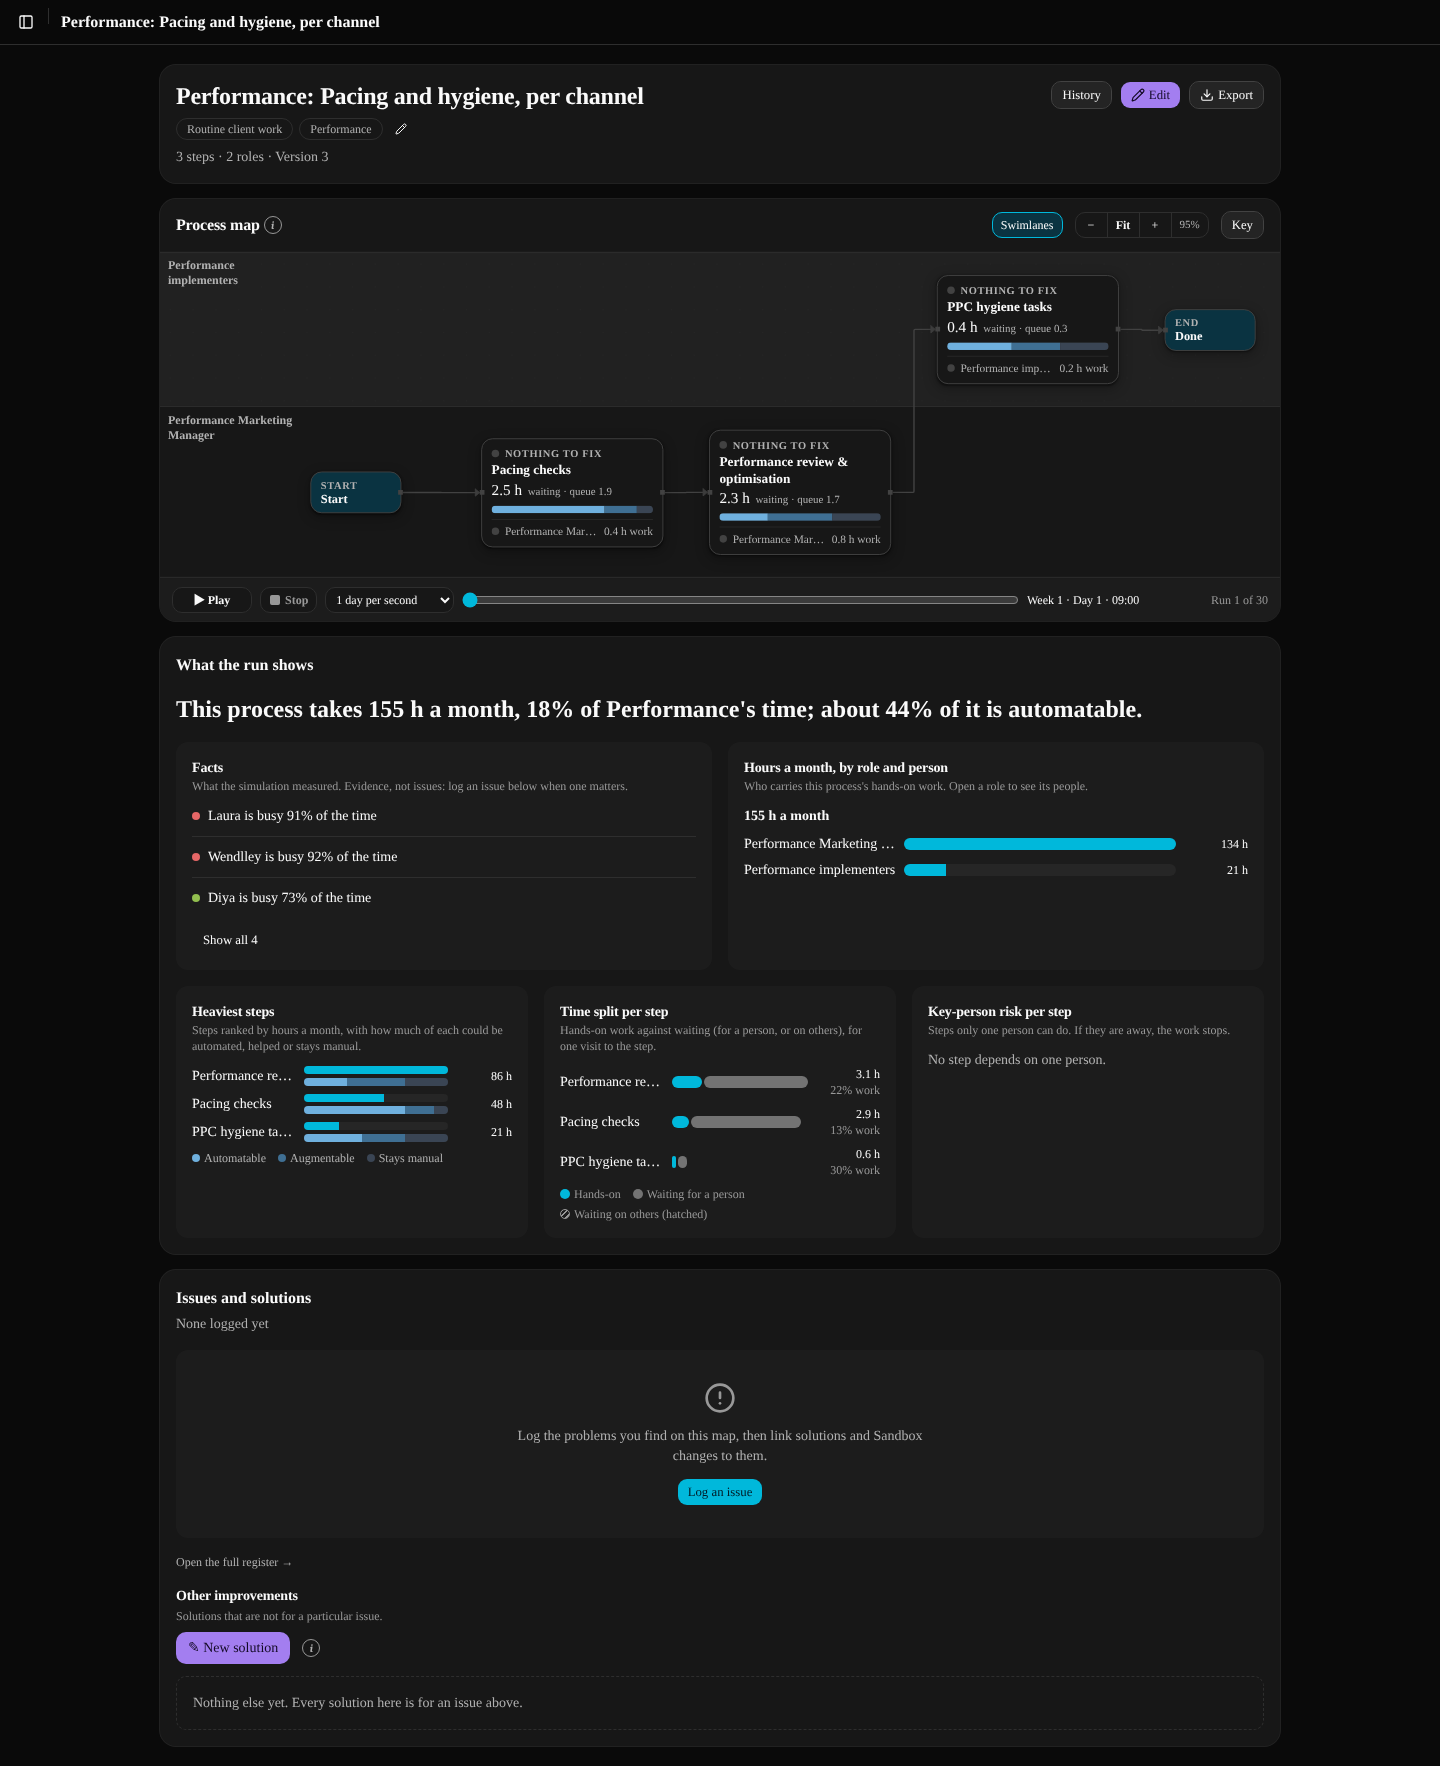
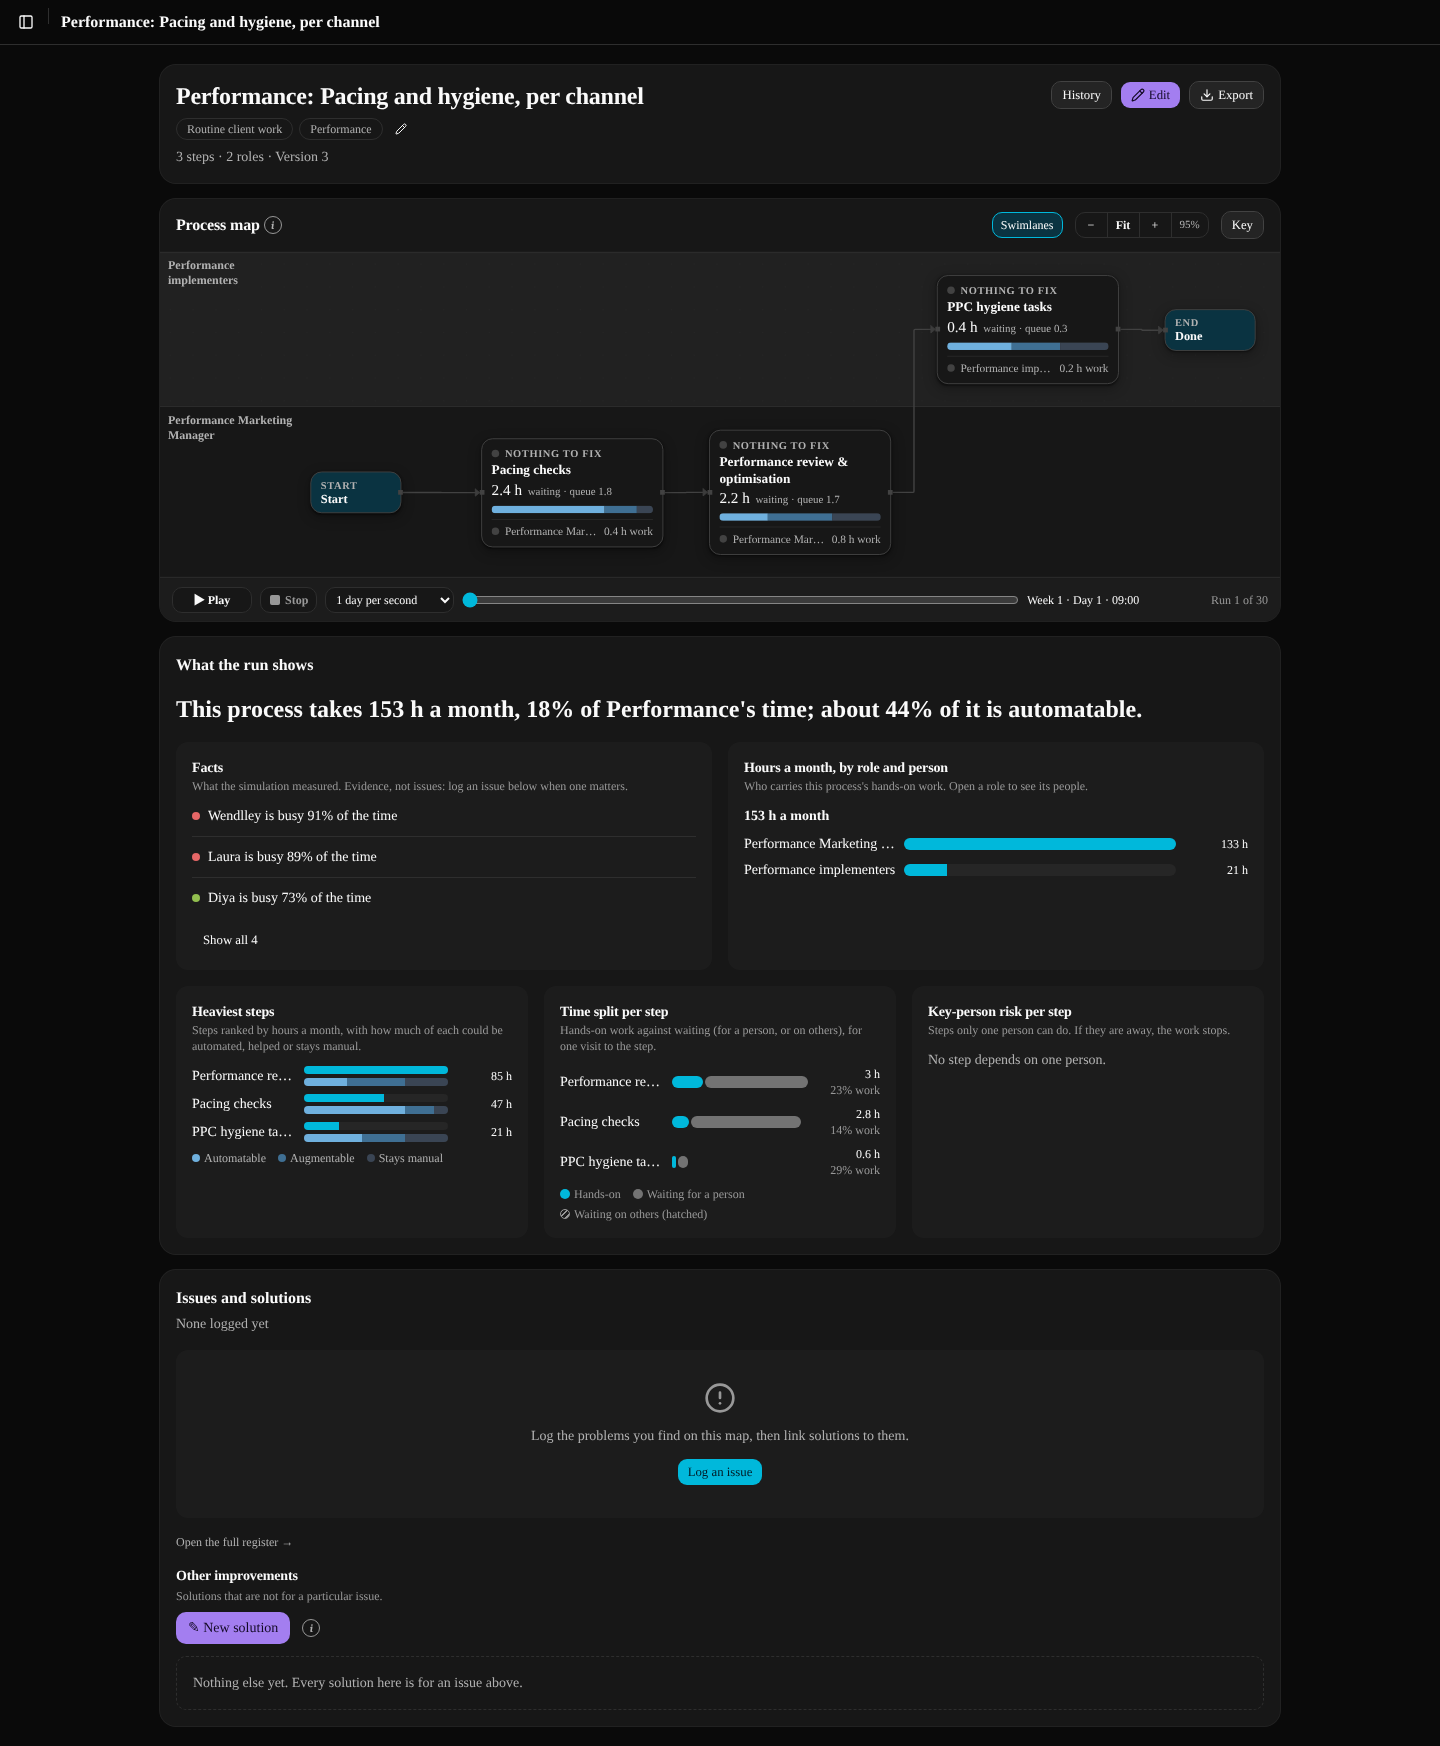
Q8: follow D42 (no linked changes on issue rows), shared StatusPill, refreshed screenshots
Claude-Session: https://claude.ai/code/session_0162F8LBTTDy4Bydy6b4pcBv

diff --git a/apps/web/src/components/process-issues-card.tsx b/apps/web/src/components/process-issues-card.tsx
@@ -1,7 +1,7 @@
 "use client";
 
 // The process page's "Issues and solutions" card (Q8). Each issue is one row: a rating dot, the title, the step it sits on (a link that
-// lights the step on the map), a status pill and its owner, and under it the changes and solutions linked to it. The row opens the issue
+// lights the step on the map), a status pill and its owner, and under it the solutions linked to it. The row opens the issue
 // page. "Other improvements" (solutions for no issue) sit in the same card. The register still owns saving and the New issue dialog.
 
 import { CircleAlert } from "lucide-react";
@@ -9,14 +9,14 @@ import Link from "next/link";
 import type { ReactNode } from "react";
 import { RATING_LABELS } from "@transpera-flow/engine";
 import type { IssueRow } from "@transpera-flow/db";
-import { Badge } from "@/components/ui/badge";
 import { Button } from "@/components/ui/button";
 import { Card, CardAction, CardContent, CardDescription, CardHeader, CardTitle } from "@/components/ui/card";
 import { Skeleton } from "@/components/ui/skeleton";
+import { StatusPill } from "@/components/issues/status-pill";
 import { IssueTrackView } from "@/components/issue-track";
 import { VerdictWord } from "@/components/solutions/solution-cards";
 import { issueHref } from "@/lib/issues/pages";
-import { STATUS_LABELS, entryView, type RegisterEntry } from "@/lib/issues/register";
+import { entryView, type RegisterEntry } from "@/lib/issues/register";
 import { EDIT_ONLY } from "@/lib/phone";
 import { issueCounts, issueCountsText } from "@/lib/process-page/issue-counts";
 import { TRACK_STAGES, linkedSolutions, trackOf } from "@/lib/process-page/track";
@@ -24,13 +24,6 @@ import { solutionHref } from "@/lib/solutions/cards";
 import type { SolutionsData } from "@/lib/solutions/cards";
 
 const DOT: Record<string, string> = { risk: "var(--rate-risk)", bad: "var(--rate-bad)", good: "var(--rate-good)", great: "var(--rate-great)" };
-
-/** A change on the Sandbox that names an issue (name only: the hours it frees need a run per change, which the issue page makes). */
-export interface LinkedChange {
-  id: string;
-  name: string;
-  issue_id: string | null;
-}
 
 export interface IssuesCardProps {
   entries: RegisterEntry[];
@@ -42,7 +35,6 @@ export interface IssuesCardProps {
   /** `/w/<slug>` (or `/demo`): the issue and solution pages live under it. */
   base: string;
   solutions: Pick<SolutionsData, "solutions" | "links">;
-  changes: readonly LinkedChange[];
   /** Light this step on the map and bring the map into view. */
   onShowStep: (stepId: string) => void;
   /** Where "Build solution" opens the Editor for an issue, or null. */
@@ -81,7 +73,7 @@ export function IssuesCard(p: IssuesCardProps) {
           ) : (
             <div className="flex flex-col items-center gap-3 rounded-lg bg-muted/40 px-4 py-8 text-center" data-issues-empty>
               <CircleAlert aria-hidden className="size-8 text-fg-3" />
-              <p className="max-w-md text-sm text-fg-2">Log the problems you find on this map, then link solutions and Sandbox changes to them.</p>
+              <p className="max-w-md text-sm text-fg-2">Log the problems you find on this map, then link solutions to them.</p>
               {p.canEdit && (
                 <span className={EDIT_ONLY} data-edit-entry>
                   <Button type="button" size="sm" onClick={p.openNew}>
@@ -111,11 +103,10 @@ export function IssuesCard(p: IssuesCardProps) {
   );
 }
 
-function IssueRowView({ entry, issue, names, base, solutions, changes, onShowStep, buildHref }: IssuesCardProps & { entry: RegisterEntry; issue: IssueRow }) {
+function IssueRowView({ entry, issue, names, base, solutions, onShowStep, buildHref }: IssuesCardProps & { entry: RegisterEntry; issue: IssueRow }) {
   const v = entryView(entry);
   const linked = linkedSolutions(solutions, issue.id);
   const track = trackOf(issue, linked);
-  const mine = changes.filter((c) => c.issue_id === issue.id);
   const owners = (issue.owner_ids.length ? issue.owner_ids : issue.owner_person_id ? [issue.owner_person_id] : []).map((id) => names.person.get(id) ?? "someone who left");
   const first = v.stepIds[0];
   const stepName = first ? (names.step.get(first) ?? "a removed step") : null;
@@ -134,9 +125,7 @@ function IssueRowView({ entry, issue, names, base, solutions, changes, onShowSte
           {issue.number != null && <span className="mr-1.5 font-mono font-normal text-fg-3">#{issue.number}</span>}
           {v.title}
         </Link>
-        <Badge variant="outline" data-issue-status={issue.status}>
-          {STATUS_LABELS[issue.status]}
-        </Badge>
+        <StatusPill status={issue.status} />
         {track.stage !== null && (
           <span className="text-xs text-fg-3" data-issue-stage>
             {TRACK_STAGES[track.stage]}
@@ -162,16 +151,8 @@ function IssueRowView({ entry, issue, names, base, solutions, changes, onShowSte
           )}
         </p>
       )}
-      {(mine.length > 0 || linked.length > 0) && (
-        <ul className="relative flex flex-col gap-0.5 pl-5 text-xs text-fg-2" aria-label="Linked changes and solutions">
-          {mine.length > 0 && (
-            <li data-linked-changes>
-              <Link href={`${base}/sandbox`} className="relative z-10 hover:underline">
-                {mine.length === 1 ? "Change" : `${mine.length} changes`}: {mine.slice(0, 2).map((c) => c.name).join(", ")}
-                {mine.length > 2 ? ` and ${mine.length - 2} more` : ""}
-              </Link>
-            </li>
-          )}
+      {linked.length > 0 && (
+        <ul className="relative flex flex-col gap-0.5 pl-5 text-xs text-fg-2" aria-label="Linked solutions">
           {linked.map((s) => (
             <li key={s.solution.id} data-solution={s.solution.id} className="flex flex-wrap items-baseline gap-x-2">
               <Link href={solutionHref(base, s.solution.id)} className="relative z-10 hover:underline">

diff --git a/apps/web/src/components/workspace-process-page.tsx b/apps/web/src/components/workspace-process-page.tsx
@@ -1,9 +1,8 @@
 import { notFound, redirect } from "next/navigation";
-import { getDb } from "@/lib/auth/session";
 import { changeProcessCategory, restoreProcess } from "@/app/w/[slug]/process-admin-actions";
 import { createProcess } from "@/app/w/[slug]/process-actions";
 import { ArchivedBanner } from "@/components/processes/archived-banner";
-import { isUnpublished, loadCapacityChanges } from "@transpera-flow/db";
+import { isUnpublished } from "@transpera-flow/db";
 import { ProcessNav } from "@/components/process-nav";
 import { ProcessPage } from "@/components/process-page";
 import { SourceLinkingScope } from "@/components/sources/linking-scope";
@@ -29,7 +28,7 @@ export async function WorkspaceProcessPage({ slug, processId, version }: { slug:
   const archivedAt = live.process.archived_at ?? null;
   // `?version=N` shows an earlier version, read only; a number that isn't an earlier version shows live.
   const earlier = version ? await loadProcessVersion(live, version) : null;
-  const [canEdit, scenarios, issues, sources, liveRevisions, solutions, viewerId, memberNames, tierSetup, laneInput, changes] = await Promise.all([
+  const [canEdit, scenarios, issues, sources, liveRevisions, solutions, viewerId, memberNames, tierSetup, laneInput] = await Promise.all([
     canEditWorkspace(live.workspace.id),
     loadWorkspaceScenarios(live.workspace.id),
     loadWorkspaceIssues(live.workspace.id),
@@ -41,8 +40,6 @@ export async function WorkspaceProcessPage({ slug, processId, version }: { slug:
     loadMemberNames(live.workspace.id),
     loadTierSetup(live.workspace.id),
     loadDepartmentLaneInput(live.workspace.id),
-    // The Sandbox changes that name an issue are listed under it.
-    getDb().then((db) => loadCapacityChanges(db, live.workspace.id)).catch(() => []),
   ]);
   const shown = earlier ?? (isUnpublished(live) && draft ? draft : live);
   const base = `/w/${slug}`;
@@ -65,7 +62,6 @@ export async function WorkspaceProcessPage({ slug, processId, version }: { slug:
       registerHref={`${base}/issues`}
       settingsHref={`${base}/settings`}
       tierSetup={tierSetup}
-      changes={changes.map((c) => ({ id: c.id, name: c.name, issue_id: c.issue_id }))}
       department={departmentField(live.process, laneInput)}
       editCategory={canEdit && !earlier && !archivedAt ? changeProcessCategory.bind(null, live.process.id) : undefined}
       editHref={canEdit && !archivedAt ? `${base}/p/${live.process.id}/edit` : undefined}

diff --git a/apps/web/test/q8-process-page.test.ts b/apps/web/test/q8-process-page.test.ts
@@ -4,7 +4,7 @@ import { dirname } from "node:path";
 import { fileURLToPath } from "node:url";
 import { chromium, type Browser, type Page } from "playwright-core";
 import { afterAll, beforeAll, describe, expect, it } from "vitest";
-import { loadCapacityChanges, loadCapacitySetup, loadIssuesForReader, loadProcessBySlug, loadSolutionIssues, loadSolutions, type ProcessBundle } from "@transpera-flow/db";
+import { loadCapacitySetup, loadIssuesForReader, loadProcessBySlug, loadSolutionIssues, loadSolutions, type ProcessBundle } from "@transpera-flow/db";
 import { loadCapacityExample } from "../../../packages/db/src/fixtures/capacity-example";
 import { addExampleIssues, EXAMPLE_MARKER_PROCESS } from "../../../packages/db/src/fixtures/capacity-example-issues";
 import { createTestDb, createUser, type TestDb } from "../../../packages/db/test/harness";
@@ -62,7 +62,6 @@ beforeAll(async () => {
     tierSetup: tierSetupFrom(await loadCapacitySetup(db, ws)),
     issues: await loadIssuesForReader(db, ws),
     solutions: { solutions, links: solutionLinks.filter((l) => solutions.some((s) => s.id === l.solution_id)) },
-    changes: await loadCapacityChanges(db, ws),
     department: departmentField(bundle.process, { departments, services, links }),
   };
   [script, css, workers] = await Promise.all([
@@ -151,7 +150,7 @@ describe("the process page as cards", () => {
   it("with no issues the card says what goes there, with an icon and the button", async () => {
     const { page } = await mount({ editor: true, issues: false });
     const empty = page.locator("#issues [data-issues-empty]");
-    expect(await empty.innerText()).toContain("Log the problems you find on this map, then link solutions and Sandbox changes to them.");
+    expect(await empty.innerText()).toContain("Log the problems you find on this map, then link solutions to them.");
     expect(await empty.locator("svg").count()).toBe(1);
     expect(await empty.getByRole("button", { name: "Log an issue" }).count()).toBe(1);
     await page.close();

diff --git a/apps/web/src/components/process-page.tsx b/apps/web/src/components/process-page.tsx
@@ -45,7 +45,7 @@ import type { TierSetup } from "@/lib/tier-setup";
 import { ProcessSolutions, type SolutionsData } from "./solutions/process-solutions";
 import { NO_SOLUTIONS_DATA } from "@/lib/solutions/cards";
 import { useProcessIssues } from "./process-issues";
-import { IssuesCard, type LinkedChange } from "./process-issues-card";
+import { IssuesCard } from "./process-issues-card";
 import { useEngineModel, type EditMode } from "@/lib/sim/use-engine-model";
 import { namedForViewer, viewerOf } from "@/lib/viewer";
 import { EDIT_ONLY } from "@/lib/phone";
@@ -77,10 +77,7 @@ export function ProcessPage({
   notice,
   tierSetup,
   department,
-  changes = [],
 }: {
-  /** The workspace's Sandbox changes, for the ones that name an issue (listed under it). */
-  changes?: LinkedChange[];
   /** The Department field of "About this process" (Q4): omitted where there is no workspace to read departments from. */
   department?: DepartmentFieldData;
   /** The tiers and what each service's tier gets, for the step base values (a driver recurrence is read from them). */
@@ -159,7 +156,6 @@ export function ProcessPage({
         loading={c.loading && model !== null}
         base={solBase}
         solutions={solData}
-        changes={changes}
         onShowStep={showGapStep}
         buildHref={(issue) => (canBuild && (issue.status === "open" || issue.status === "testing") ? buildSolutionHref(solBase, issue, `${solBase}/p/${bundle.process.id}#issues`) : null)}
         registerHref={registerHref}

diff --git a/apps/web/test/q8-process-page-harness/entry.tsx b/apps/web/test/q8-process-page-harness/entry.tsx
@@ -1,7 +1,7 @@
 // The process page on the example agency's fixture, for ../q8-process-page.test.ts (checks and screenshots). Test only, nothing here ships.
 
 import { createRoot } from "react-dom/client";
-import type { CapacityChangeRow, IssueRow, ProcessBundle, SolutionIssueRow, SolutionRow } from "@transpera-flow/db";
+import type { IssueRow, ProcessBundle, SolutionIssueRow, SolutionRow } from "@transpera-flow/db";
 import { ProcessPage } from "@/components/process-page";
 import { SidebarProvider } from "@/components/ui/sidebar";
 import type { DepartmentFieldData } from "@/lib/process-page/department";
@@ -15,7 +15,6 @@ declare global {
       tierSetup: TierSetup;
       issues: IssueRow[];
       solutions: { solutions: SolutionRow[]; links: SolutionIssueRow[] };
-      changes: CapacityChangeRow[];
       department: DepartmentFieldData;
     };
     mountQ8: (o: { editor: boolean; issues: boolean; unpublished?: boolean }) => void;
@@ -46,7 +45,6 @@ window.mountQ8 = ({ editor, issues, unpublished }) => {
         department={d.department}
         editCategory={editor ? async () => ({ status: "ok" as const }) : undefined}
         issues={issues ? d.issues : []}
-        changes={issues ? d.changes : []}
         solutions={{ data: solutions, base: "/w/example" }}
         registerHref="/w/example/issues"
       />
